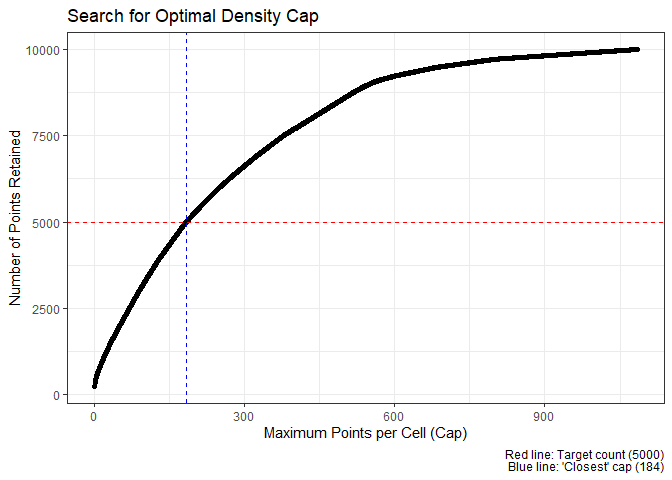
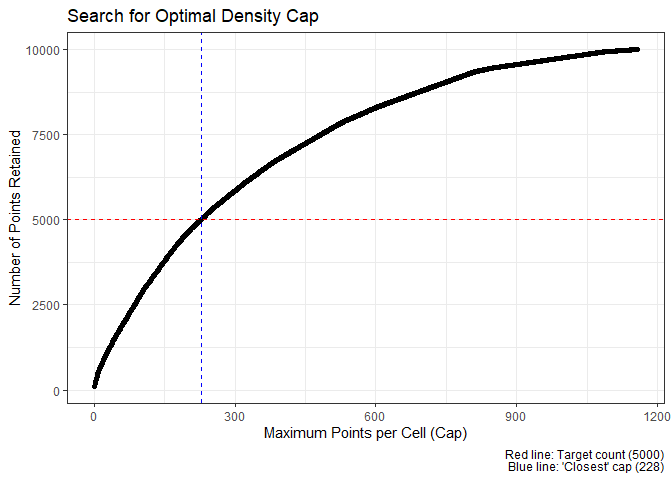
add update

diff --git a/README.md b/README.md
@@ -1,7 +1,7 @@
 
 <!-- README.md is generated from README.Rmd. Please edit that file -->
 
-# bean
+# bean 🫛
 
 <!-- badges: start -->
 
@@ -107,7 +107,58 @@ ggplot(occ_data, aes(x = BIO1, y = BIO12)) +
 
 <img src="man/figures/README-setup-1.png" width="100%" />
 
-### Step 2: Parameter Exploration with `find_optimal_cap()`
+### Step 2: Objective Grid Resolution using Pairwise Distances
+
+The most critical parameter in environmental gridding is the
+`grid_resolution`. Instead of guessing this value, we can derive it
+objectively from the data by analyzing the **distribution of pairwise
+environmental distances**.
+
+The logic is to calculate the Euclidean distance between all pairs of
+points in the (scaled) environmental space. A small quantile of this
+distribution (e.g., the 10th percentile) represents a typical distance
+between “close” points. Using this value as the grid resolution is
+statistically justified because it adapts the cell size to the inherent
+scale of clustering within the dataset.
+
+The `find_env_resolution()` function automates this process.
+
+``` r
+# Set a seed for reproducibility of the resampling in the correlogram
+set.seed(81)  
+
+# Let's use the 10th percentile of distances as our resolution
+resolution_results <- find_env_resolution(
+  data = occ_data,
+  env_vars = c("BIO1", "BIO12"),
+  quantile = 0.1
+)
+#> Calculating pairwise environmental distances...
+#> Resolution at 0.10 quantile: 0.235417
+
+# The function returns a suggested resolution and the full distance distribution
+resolution_results
+#> --- Bean Environmental Resolution Analysis (Pairwise Distance) ---
+#> 
+#> Suggested Grid Resolution: 0.235417
+#> (This is the distance at the specified quantile of all pairwise distances)
+#> 
+#> To see the full distance distribution, run plot(your_results_object).
+
+# We can also plot the distribution to visualize the analysis
+# The blue line shows the distance at the chosen quantile.
+plot(resolution_results)
+```
+
+<img src="man/figures/README-find-resolution-1.png" width="100%" />
+
+``` r
+
+# Let's use this objective resolution in the next step
+grid_res <- resolution_results$suggested_resolution
+```
+
+### Step 3: Parameter Exploration with `find_optimal_cap()`
 
 This is the most important step for ensuring a defensible thinning
 strategy. Instead of guessing parameters, `find_optimal_cap()` allows
@@ -134,8 +185,8 @@ avoid losing too much data.
 # For reproducibility of the random sampling within the function
 set.seed(81) 
 
-# Define the grid resolution based on ecological knowledge
-grid_res <- 0.1 # A resolution of 0.1 unit for the environmental axies
+# You can manually define the grid resolution based on ecological knowledge
+# grid_res <- 0.1 # A resolution of 0.1 unit for the environmental axies
 
 # Let's target retaining 50% of the data
 optimal_params <- find_optimal_cap(
@@ -152,12 +203,12 @@ optimal_params
 #> --- Bean Optimization Results ---
 #> 
 #> Recommendation for 'Closest to Target':
-#>   - Best Cap: 184
-#>   - Retained Points: 4992
+#>   - Best Cap: 228
+#>   - Retained Points: 5006
 #> 
 #> Recommendation for 'Closest Above Target':
-#>   - Best Cap: 185
-#>   - Retained Points: 5009
+#>   - Best Cap: 228
+#>   - Retained Points: 5006
 #> 
 #> To see the diagnostic plot, run plot(your_results_object).
 
@@ -172,7 +223,7 @@ plot(optimal_params)
 #The plot and the output list show that to get closest to our target of 50%.
 ```
 
-### Step 3: Apply Thinning with `thin_env_density()`
+### Step 4: Apply Thinning with `thin_env_density()`
 
 Based on the exploration in Step 2, you can now make an informed
 decision and apply the final thinning. For this protocol, we will
@@ -186,7 +237,7 @@ data requirement.
 # Default to a safe value
 chosen_cap <- optimal_params$best_cap_above_target
 cat(sprintf("Proceeding with cap = %d\n", chosen_cap))
-#> Proceeding with cap = 185
+#> Proceeding with cap = 228
 
 # Set a seed again for the final, reproducible thinning
 set.seed(81) 
@@ -201,12 +252,12 @@ thinned_data <- thin_env_density(
 cat(sprintf("Original number of points: %d\n", nrow(occ_data)))
 #> Original number of points: 10000
 cat(sprintf("Thinned number of points:  %d\n", nrow(thinned_data)))
-#> Thinned number of points:  5009
+#> Thinned number of points:  5006
 cat(sprintf("Percentage of points remaining: %.1f%%\n", 100 * (nrow(thinned_data) / nrow(occ_data))))
 #> Percentage of points remaining: 50.1%
 ```
 
-### 4. Visualize the Thinning Process with Grids
+### 5. Visualize the Thinning Process with Grids
 
 To see exactly what the function is doing, we can draw the environmental
 grid over our plots.
@@ -258,14 +309,17 @@ ggplot(occ_data, aes(x = BIO1, y = BIO12)) +
     x = "Mean Annual Temperature (BIO1)",
     y = "Annual Precipitation (BIO12)"
   ) +
-  theme_bw()
+  theme_bw() +
+  theme(panel.grid.major = element_blank(),
+    panel.grid.minor = element_blank(),
+    panel.background = element_blank())
 ```
 
 <img src="man/figures/README-plot-original-grid-1.png" width="100%" />
 
 #### Thinned Data with Grid
 
-This plot shows the result: a maximum of 185 point(s) per cell.
+This plot shows the result: a maximum of 228 point(s) per cell.
 
 ``` r
 ggplot(thinned_data, aes(x = BIO1, y = BIO12)) +
@@ -278,7 +332,10 @@ ggplot(thinned_data, aes(x = BIO1, y = BIO12)) +
     x = "Mean Annual Temperature (BIO1)",
     y = "Annual Precipitation (BIO12)"
   ) +
-  theme_bw()
+  theme_bw() +
+  theme(panel.grid.major = element_blank(),
+    panel.grid.minor = element_blank(),
+    panel.background = element_blank())
 ```
 
 <img src="man/figures/README-plot-thinned-grid-1.png" width="100%" />
@@ -289,7 +346,7 @@ Combined Comparison with Grid
 ggplot() +
   # 1. Plot the original data as a background layer
   geom_point(data = occ_data, aes(x = BIO1, y = BIO12), 
-             color = "#D55E00", alpha = 0.5, size = 1.5) +
+             color = "#D55E00", alpha = 0.6, size = 2) +
   
   # 2. Add the grid lines
   geom_vline(xintercept = x_breaks, color = "grey70", linetype = "dashed", linewidth = 0.5) +
@@ -306,7 +363,10 @@ ggplot() +
     x = "Mean Annual Temperature (BIO1)",
     y = "Annual Precipitation (BIO12)"
   ) +
-  theme_bw()
+  theme_bw() +
+  theme(panel.grid.major = element_blank(),
+    panel.grid.minor = element_blank(),
+    panel.background = element_blank())
 ```
 
 <img src="man/figures/README-unnamed-chunk-2-1.png" width="100%" />
